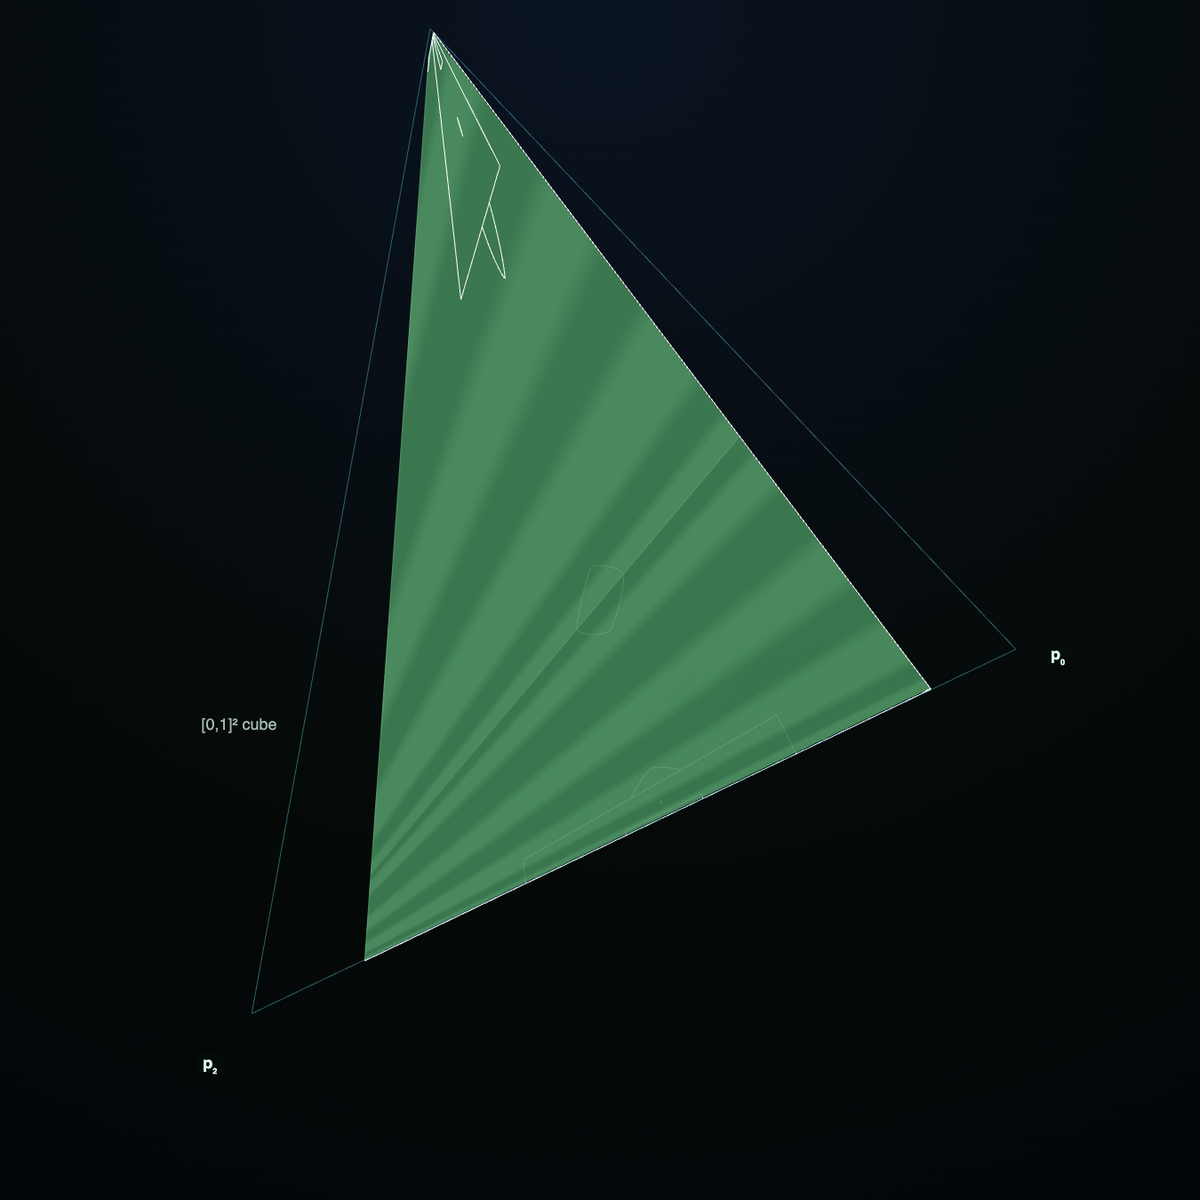
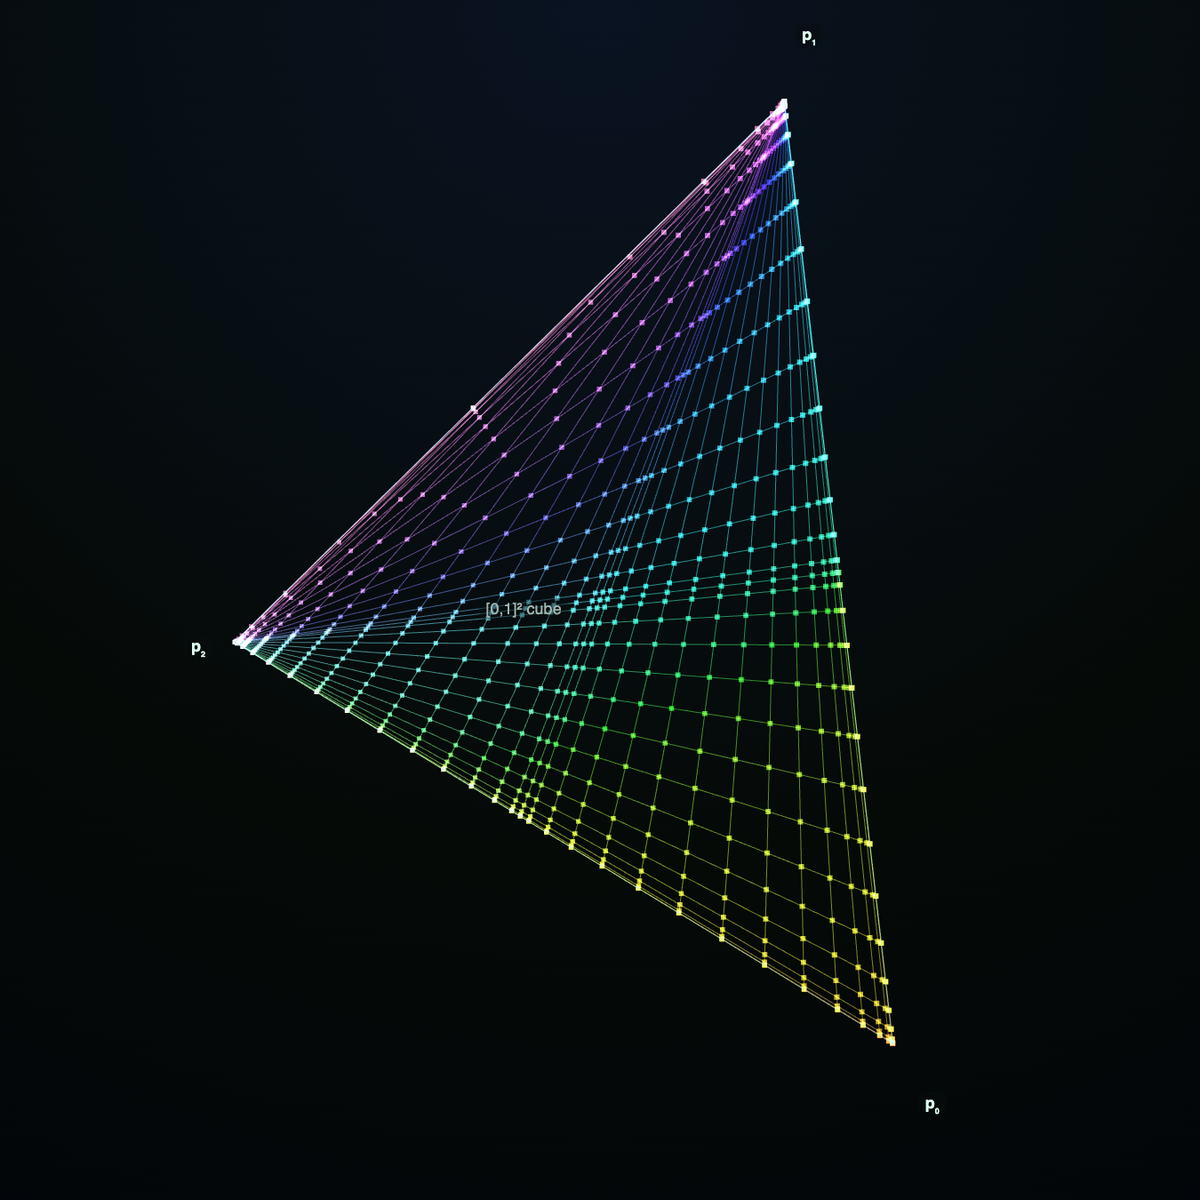
docs: full cycle twice — grid square<->triangle, then soccer square<->triangle
The loop now plays the cube<->simplex transform TWICE: first with the coordinate
grid (rainbow square -> triangle -> square), then with the soccer field (flat
rectangular pitch -> triangular field -> flat pitch). Both skins undergo the
identical transform; the grid/field crossfade happens at the flat square where
they are registered. The soccer field flattens back to a square pitch, as
intended.

Changed region(s): [[0.185, 0.0308, 0.7708, 0.8633], [0.185, 0.5858, 0.2158, 0.6167]]

diff --git a/docs/grid-to-pitch-simplex.html b/docs/grid-to-pitch-simplex.html
@@ -196,14 +196,14 @@ function applyFade(w){gridLineMat.opacity=0.55*(1-w);gridPtMat.opacity=0.82*(1-w
   // keep the white markings on the whole time the field is visible
   const t=Math.min(1,Math.max(0,(w-0.03)/0.15)); markMat.opacity=t*t*(3-2*t);}
 
-// Both skins are warped onto the SAME simplex. The morph m holds at the simplex
-// (m=1) for the entire pitch window, so the pitch is always the warped TRIANGULAR
-// field — never a square. The grid alone does the cube<->simplex flattening,
-// before and after, and the crossfades happen at the simplex.
+// TWO full square -> triangle -> square cycles per loop. The FIRST cycle is shown
+// with the coordinate grid; the SECOND with the soccer field. Both skins undergo
+// the identical cube<->simplex transform. The grid/field crossfades happen at the
+// FLAT SQUARE (cube), where the two skins are registered flat squares.
 function timeline(tau){
   const ss=(a,b,t)=>{t=Math.min(1,Math.max(0,(t-a)/(b-a)));return t*t*(3-2*t);};
-  const m=ss(0.00,0.20,tau)*(1-ss(0.80,1.00,tau));   // cube -> simplex (hold) -> cube
-  const w=ss(0.23,0.34,tau)*(1-ss(0.66,0.77,tau));   // grid <-> pitch, both at the simplex
+  const m=(1-Math.cos(4*Math.PI*tau))/2;             // square -> triangle -> square, twice
+  const w=ss(0.46,0.54,tau)*(1-ss(0.96,1.00,tau));   // grid (1st cycle) then soccer (2nd cycle)
   return [m,w];
 }
 